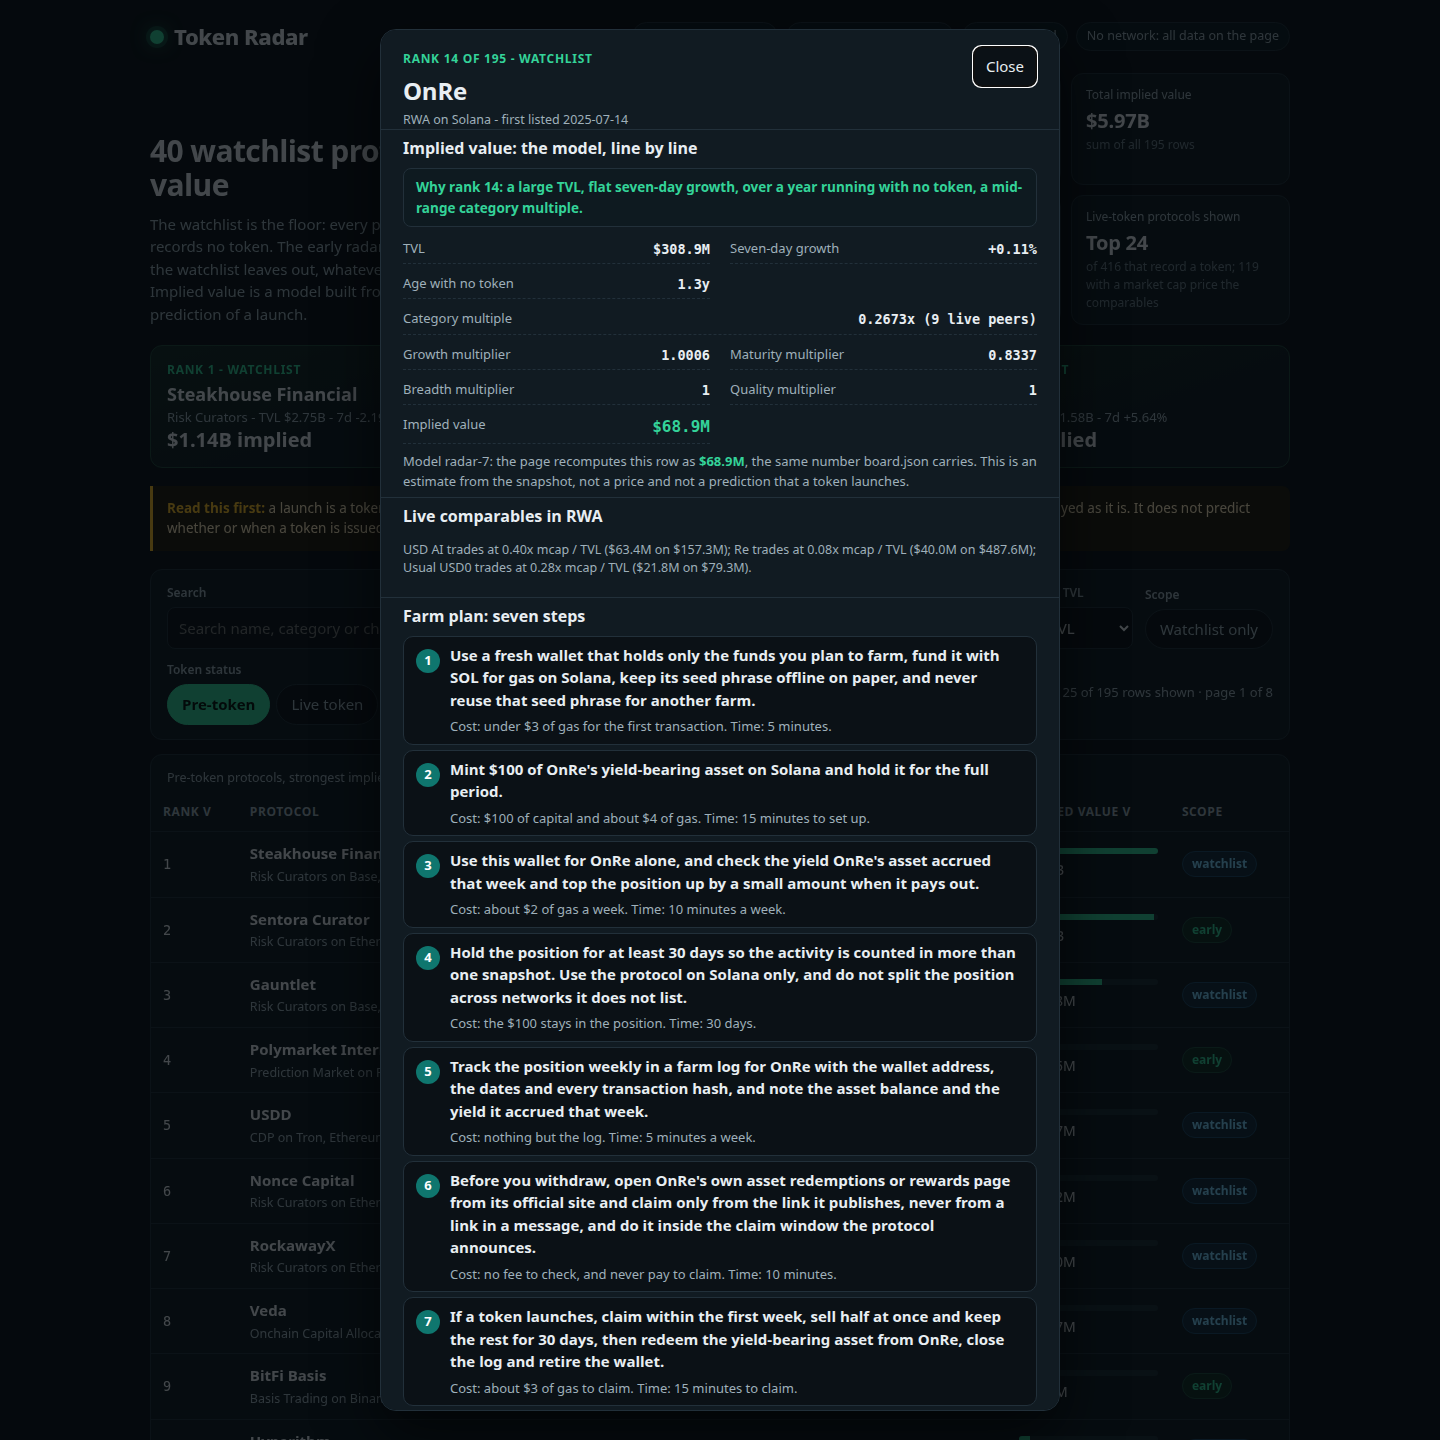
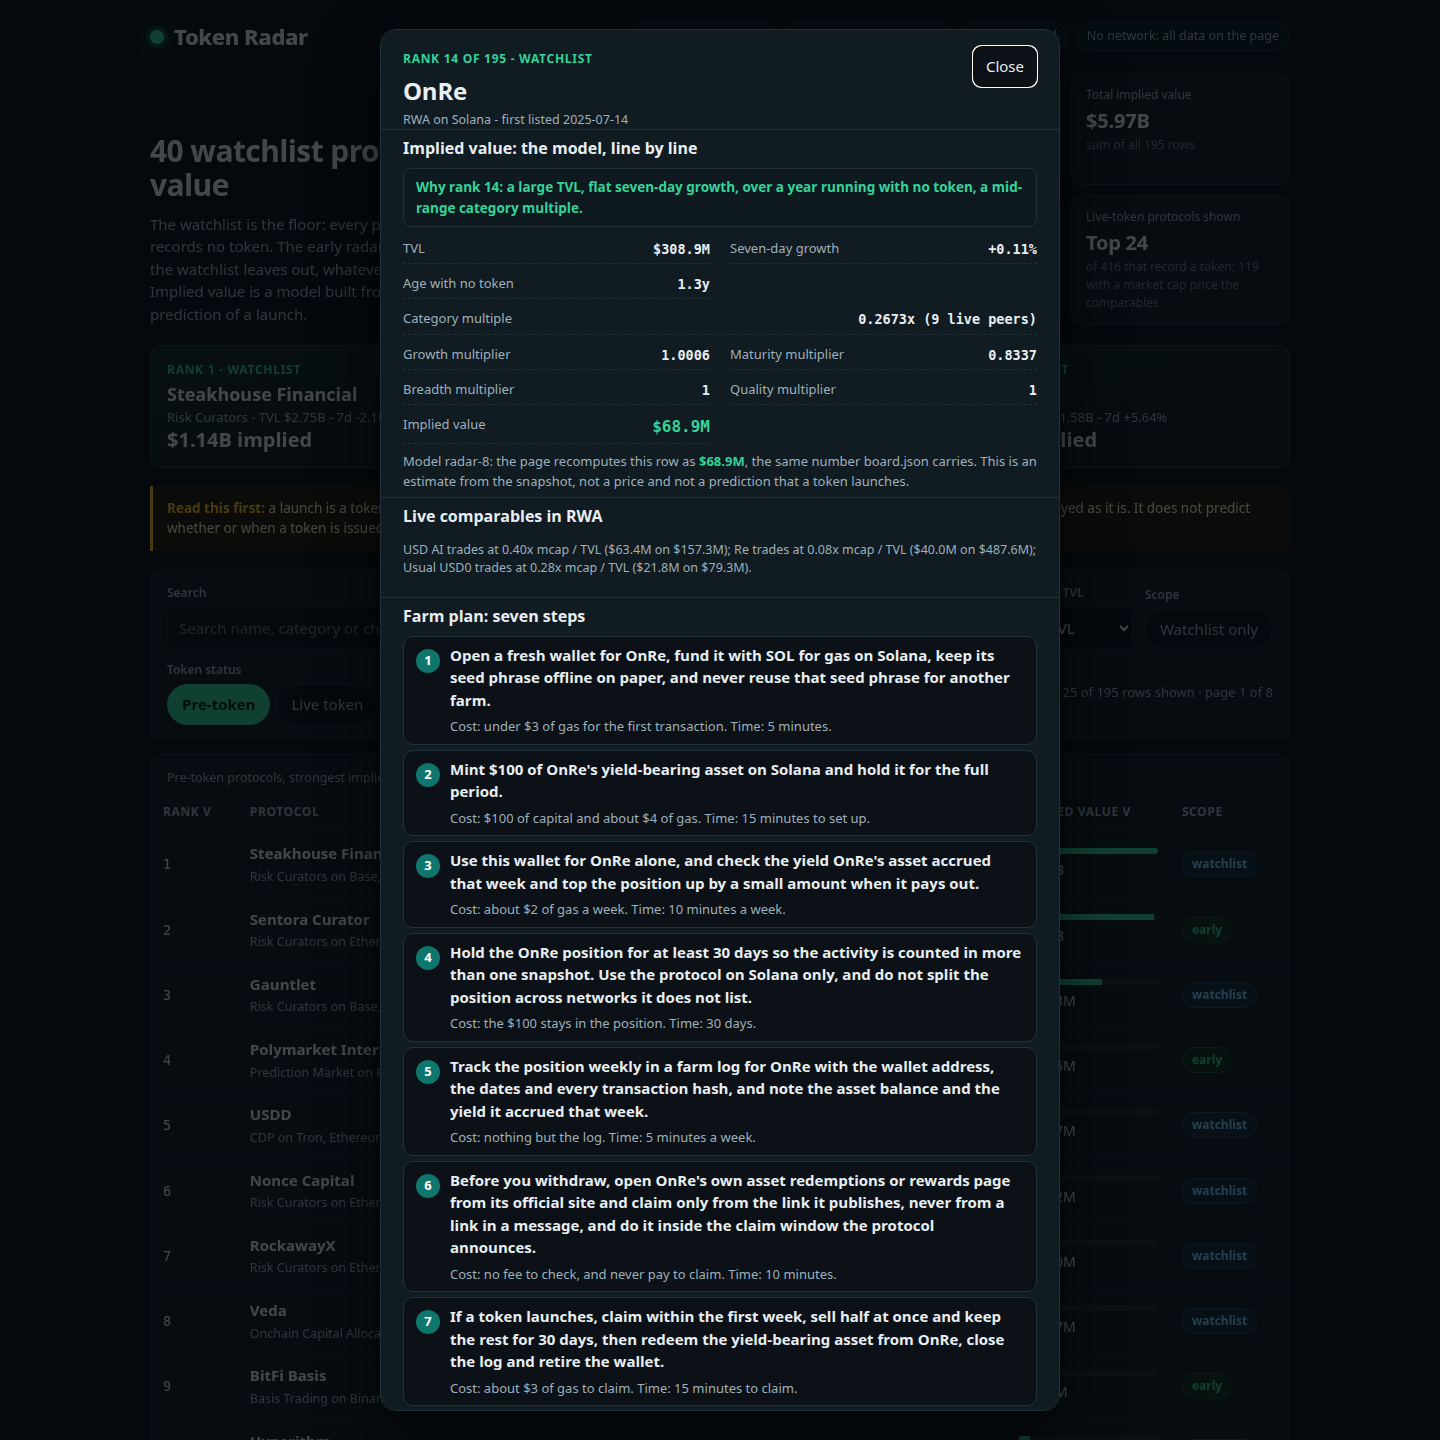
Token Radar radar-8: protocol-named farm steps, cap/floor named in the UI
Farm plans: steps 1 and 4 used to read identically for every protocol
on the same chain (one step-1 string covered 55 rows), so the plans
looked templated where the action differed. Both steps now name the
protocol, so all seven steps are a different string on all 195 rows;
the formula and every implied value are unchanged (total $5.97B,
median $4.6M, top 3 unchanged).

Bound disclosure: a multiple sitting on the model's bound now says so
in the comparables table, in the detail view's multiple line and in the
why-sentence. Prediction Market's raw 400.20x peer prices at the 0.80
cap and Staking Pool's raw 0.0018x peer at the 0.05 floor, and neither
is left for the reader to infer from the two numbers side by side.

The cap stays the guard for the Prediction Market case: a $25M
peer-TVL floor would throw out 58 of the 119 priced peers (including
the only peer of Risk Curators, Chain, Options and NFT Marketplace),
and winsorizing the raw median would collapse the rich single-peer
categories back to one number, the flaw radar-7 fixed. The cap bounds
the outlier and the raw stays visible. Screenshots retaken from the
new build.

Changed region(s): [[0.3125, 0.4375, 0.6875, 0.5], [0.3125, 0.6562, 0.7188, 0.7188]]

diff --git a/dashboard/app.js b/dashboard/app.js
@@ -1,4 +1,4 @@
-// Token Radar's dashboard (radar-7). It reads window.RADAR (written beside
+// Token Radar's dashboard (radar-8). It reads window.RADAR (written beside
 // dashboard/ by main.ts from the same board.json) and renders the ranked
 // board, the filters, a per-protocol detail view with the model's own
 // breakdown and the protocol's farm plan, and the live-token set kept apart.
@@ -62,7 +62,9 @@
     else if (row.age_days !== null && row.age_days !== undefined && row.age_days >= 180) parts.push('half a year running with no token');
     else if (row.age_days !== null && row.age_days !== undefined && row.age_days < 180) parts.push('a young protocol, seasoned only briefly');
     else parts.push('age unreported, so it is scored as a year old');
-    if (row.category_multiple >= 0.5) parts.push('a rich category multiple');
+    if (row.category_multiple >= DATA.model.multiple_cap) parts.push('a category multiple at the model cap');
+    else if (row.category_multiple <= DATA.model.multiple_floor) parts.push('a category multiple at the model floor');
+    else if (row.category_multiple >= 0.5) parts.push('a rich category multiple');
     else if (row.category_multiple <= 0.1) parts.push('a cheap category multiple');
     else if (row.category_multiple >= 0.2) parts.push('a mid-range category multiple');
     else parts.push('a below-market category multiple');
@@ -419,12 +421,21 @@
     entries.forEach(function (e) {
       var peers = DATA.peers ? (DATA.peers[e[0]] || 0) : 0;
       var raw = DATA.raw_multiples ? DATA.raw_multiples[e[0]] : null;
+      // A multiple sitting on the model's bound says so outright: a reader
+      // who sees Prediction Market's raw 400.20x next to a used 0.8000x
+      // should not have to infer that the cap bound it, and a reader who
+      // sees Staking Pool's 0.0500x should see the floor did the same.
+      var read = e[1] >= DATA.model.multiple_cap ? 'at the model cap: the raw median exceeds the bound'
+        : e[1] <= DATA.model.multiple_floor ? 'at the model floor: the raw median is below the bound'
+        : peers === 0 ? 'no live peer: market median'
+        : peers < 3 ? 'thin evidence: shrunk toward the market'
+        : 'median live mcap / TVL in this category';
       tbody.appendChild(el('tr', null,
         el('td', null, el('b', { text: e[0] })),
         el('td', { class: 'num', text: e[1].toFixed(4) + 'x' }),
         el('td', { class: 'num', text: String(peers) }),
         el('td', { class: 'num', text: raw === null || raw === undefined ? 'n/a' : raw.toFixed(4) + 'x' }),
-        el('td', { class: 'num', text: peers === 0 ? 'no live peer: market median' : peers < 3 ? 'thin evidence: shrunk toward the market' : 'median live mcap / TVL in this category' })
+        el('td', { class: 'num', text: read })
       ));
     });
     return el('section', { class: 'panel peers' },
@@ -465,7 +476,7 @@
         el('div', null, el('span', { text: 'TVL' }), el('b', { class: 'num', text: fmtUsd(row.tvl_usd) })),
         el('div', null, el('span', { text: 'Seven-day growth' }), el('b', { class: 'num', text: fmtPct(row.change_7d) })),
         el('div', null, el('span', { text: 'Age with no token' }), el('b', { class: 'num', text: row.age_days === null ? 'unknown (scored as 1y)' : fmtAge(row.age_days) })),
-        el('div', { class: 'wide' }, el('span', { text: 'Category multiple' }), el('b', { class: 'num', text: row.category_multiple.toFixed(4) + 'x (' + (row.comparable_peers === 0 ? 'no live peer; market median' : row.comparable_peers === 1 ? '1 live peer; shrunk toward the ' + DATA.market_multiple.toFixed(4) + 'x market median' : row.comparable_peers < 3 ? row.comparable_peers + ' live peers; shrunk toward the ' + DATA.market_multiple.toFixed(4) + 'x market median' : row.comparable_peers + ' live peers') + ')' })),
+        el('div', { class: 'wide' }, el('span', { text: 'Category multiple' }), el('b', { class: 'num', text: row.category_multiple.toFixed(4) + 'x (' + (row.comparable_peers === 0 ? 'no live peer; market median' : row.comparable_peers === 1 ? '1 live peer; shrunk toward the ' + DATA.market_multiple.toFixed(4) + 'x market median' : row.comparable_peers < 3 ? row.comparable_peers + ' live peers; shrunk toward the ' + DATA.market_multiple.toFixed(4) + 'x market median' : row.comparable_peers + ' live peers') + ')' + (row.category_multiple >= DATA.model.multiple_cap ? ' — at the ' + DATA.model.multiple_cap.toFixed(2) + 'x cap' : row.category_multiple <= DATA.model.multiple_floor ? ' — at the ' + DATA.model.multiple_floor.toFixed(2) + 'x floor' : '') })),
         el('div', null, el('span', { text: 'Growth multiplier' }), el('b', { class: 'num', text: String(row.growth_multiplier) })),
         el('div', null, el('span', { text: 'Maturity multiplier' }), el('b', { class: 'num', text: String(row.maturity_multiplier) })),
         el('div', null, el('span', { text: 'Breadth multiplier' }), el('b', { class: 'num', text: String(row.breadth_multiplier) })),

diff --git a/lib/model.ts b/lib/model.ts
@@ -1,4 +1,4 @@
-// Token Radar's model (radar-7): one sealed snapshot in, one ranked board out.
+// Token Radar's model (radar-8): one sealed snapshot in, one ranked board out.
 //
 // The board covers every slug in the snapshot's watchlist (the floor, never a
 // ceiling) plus every other rankable pre-token protocol the watchlist leaves
@@ -120,7 +120,7 @@ export const MODEL: ModelConstants = {
 };
 
 /** The model's version label: the dashboard names it. */
-export const MODEL_VERSION = 'radar-7';
+export const MODEL_VERSION = 'radar-8';
 
 /** How many live-token protocols the Live token view carries, by market cap. */
 export const LIVE_ROWS = 24;
@@ -652,7 +652,11 @@ function exitFor(p: SnapshotProtocol): string {
  * A protocol's farm plan: seven steps, each an action with a cost and a time.
  * The plan is derived from the protocol's own record (category, chains, TVL
  * and age), never from a hand-written list of names. Step 1 names the gas
- * token of the protocol's own first chain. Step 3 keeps one wallet per
+ * token of the protocol's own first chain and the protocol itself, and step
+ * 4 names the protocol too, so no step is the same string on two rows: steps
+ * 1 and 4 used to read identically for every protocol on the same chain
+ * (one step-1 string covered 55 rows), which made the plan look templated
+ * even where the action differed. Step 3 keeps one wallet per
  * protocol: airdrop filters punish wallets that farm dozens of protocols
  * from one address, so the farm wallet for this protocol is used for this
  * protocol alone. Steps 2, 3, 5, 6 and 7 are shaped by the category: the
@@ -669,7 +673,7 @@ export function farmSteps(p: SnapshotProtocol, age: number | null): FarmStep[] {
   const others = p.chains.length > 1 ? ` Repeat the deposit on a second chain, ${p.chains[1]}, so the activity is not tied to one network.` : ` Use the protocol on ${chain} only, and do not split the position across networks it does not list.`;
   return [
     {
-      text: `Use a fresh wallet that holds only the funds you plan to farm, fund it with ${gasTokenFor(chain)} for gas on ${chain}, keep its seed phrase offline on paper, and never reuse that seed phrase for another farm.`,
+      text: `Open a fresh wallet for ${p.name}, fund it with ${gasTokenFor(chain)} for gas on ${chain}, keep its seed phrase offline on paper, and never reuse that seed phrase for another farm.`,
       cost: 'under $3 of gas for the first transaction',
       time: '5 minutes',
     },
@@ -684,7 +688,7 @@ export function farmSteps(p: SnapshotProtocol, age: number | null): FarmStep[] {
       time: '10 minutes a week',
     },
     {
-      text: `Hold the position for at least ${hold} days so the activity is counted in more than one snapshot.${others}`,
+      text: `Hold the ${p.name} position for at least ${hold} days so the activity is counted in more than one snapshot.${others}`,
       cost: `the $${capital} stays in the position`,
       time: `${hold} days`,
     },

diff --git a/main.ts b/main.ts
@@ -1,4 +1,4 @@
-// Token Radar (radar-7): the entry program, Node 22, standard library only.
+// Token Radar (radar-8): the entry program, Node 22, standard library only.
 //
 // It reads the sealed snapshot from /input/snapshot.json (or --input
 // <file|dir>), scores every rankable pre-token protocol with the model in

diff --git a/README.md b/README.md
@@ -6,7 +6,24 @@ staked or bridged product of one that trades, ranks them by what their launch
 would be worth, and hands in a web dashboard with the board, a detail view
 for every protocol, filters, and a farm plan for each row.
 
-## The model (radar-7)
+## The model (radar-8)
+
+Radar-8 keeps radar-7's formula and every implied value, and fixes two
+things a reader could catch it on. First, the farm plans: steps 1 and 4
+used to read identically for every protocol on the same chain (one step-1
+string covered 55 rows), so the plans looked templated where the action
+differed; both steps now name the protocol, so all seven steps are a
+different string on all 195 rows. Second, a multiple sitting on the
+model's bound now says so in the comparables table, in the detail view's
+multiple line and in the why-sentence: Prediction Market's raw 400.20x
+peer prices at the 0.80 cap, and Staking Pool's raw 0.002x peer prices at
+the 0.05 floor, and neither is left for the reader to infer from the two
+numbers side by side. The cap stays the guard for the Prediction Market
+case: a $25M peer-TVL floor would throw out 58 of the 119 priced peers
+(including the only peer of Risk Curators, Chain, Options and NFT
+Marketplace), and winsorizing the raw median would collapse the rich
+single-peer categories back to one number, the flaw radar-7 fixed; the
+cap bounds the outlier and the raw stays visible.
 
 One function scores every row, from the snapshot's own figures only:
 
